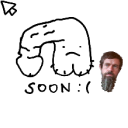
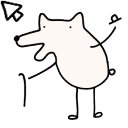
feat: replace prunhilde with a dog

diff --git a/pages/shhh.tsx b/pages/shhh.tsx
@@ -71,8 +71,7 @@ const Shhh: NextPage<PageProps> = () => (
                         <a
                             rel='nofollow'
                             target='_blank'
-                            onClick={(e) => {
-                                e.preventDefault()
+                            onClick={() => {
                                 track('click', 'subscribe', 'twitter')
                             }}
                         >
